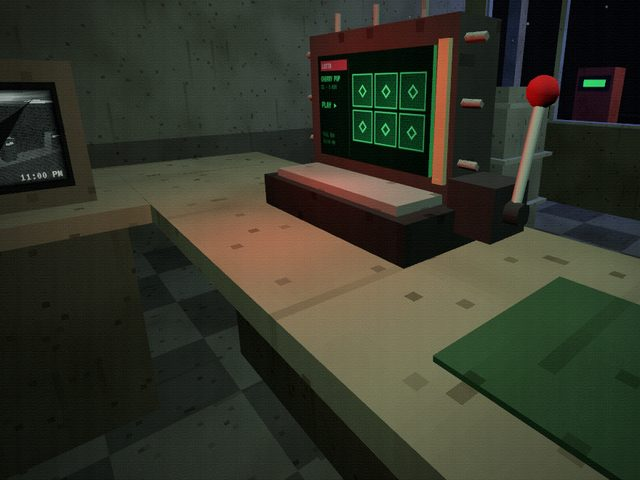
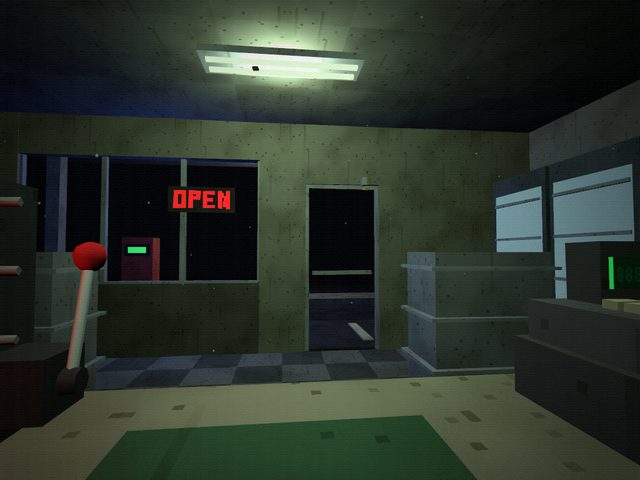
Season Ticket "Finished - For Now" and Scratch cover with the OPEN sign (#107)
* Redraw the grain elevator as a wooden prairie elevator with leg house, annex, cyclone and spout

Claude-Session: https://claude.ai/code/session_016QaTkMKy8nw5ihBrZfYzcJ

* Keep the train headlight clay in dark mode and give the train an explicit width

Claude-Session: https://claude.ai/code/session_016QaTkMKy8nw5ihBrZfYzcJ

* Give the horizon readout room below the railway

Claude-Session: https://claude.ai/code/session_016QaTkMKy8nw5ihBrZfYzcJ

* Add tilt and compass sky, Sky this week, wish badges, offline and smoother page changes

- Tilt sky (phones): the stars, moon and clouds slide with the phone's
  tilt, and the compass turns the stars and planets to the way the phone
  faces, dimming the sun or moon behind you
- Sky this week card on the home page: tonight's planets, moon phases,
  moon-planet passes, meteor peaks, eclipses, equinoxes, solstices and the
  sunset trend, all worked out on the phone
- Wish counter with badges at 1, 10, 25, 50 and 100
- sw.js offline helper: network first, saved copy when there's no signal
- Header and page-top sky stay put during page changes

Claude-Session: https://claude.ai/code/session_016QaTkMKy8nw5ihBrZfYzcJ

* Add Scratch to the games list

Scratch is Longlight's new roguelike scratch-ticket game, live at
jxstrr0.github.io/Scratch. It gets a project entry (status Building,
v0.1.0), a 640x480 cover and four screenshots captured from the live game.
CLAUDE.md lists its repo with the other games.
[…]

diff --git a/tools/prediction-tracker/index.html b/tools/prediction-tracker/index.html
@@ -14,7 +14,7 @@
   <meta property="og:title" content="Prediction Tracker · Longlight Interactive">
   <meta property="og:description" content="Log predictions with how sure you are, grade them later, and see how well-calibrated your calls really are. Everything stays on your own device.">
   <meta property="og:url" content="https://jxstrr0.github.io/Kelbo.Website/tools/prediction-tracker/">
-  <meta property="og:image" content="https://jxstrr0.github.io/Kelbo.Website/assets/social-preview.jpg?v=10">
+  <meta property="og:image" content="https://jxstrr0.github.io/Kelbo.Website/assets/social-preview.jpg?v=11">
   <meta property="og:image:width" content="1200">
   <meta property="og:image:height" content="630">
   <meta property="og:image:alt" content="The Longlight Interactive sun over a purple horizon, beside screenshots of four of its games.">

diff --git a/agent-fleet.html b/agent-fleet.html
@@ -14,7 +14,7 @@
   <meta property="og:title" content="Agent Fleet · Longlight Interactive">
   <meta property="og:description" content="A growing set of small, single-purpose bots I can run from my phone, like news digests, trackers, and weekly scans.">
   <meta property="og:url" content="https://jxstrr0.github.io/Kelbo.Website/agent-fleet.html">
-  <meta property="og:image" content="https://jxstrr0.github.io/Kelbo.Website/assets/social-preview.jpg?v=10">
+  <meta property="og:image" content="https://jxstrr0.github.io/Kelbo.Website/assets/social-preview.jpg?v=11">
   <meta property="og:image:width" content="1200">
   <meta property="og:image:height" content="630">
   <meta property="og:image:alt" content="The Longlight Interactive sun over a purple horizon, beside screenshots of four of its games.">

diff --git a/journal.html b/journal.html
@@ -14,7 +14,7 @@
   <meta property="og:title" content="AI Trading Journal · Longlight Interactive">
   <meta property="og:description" content="Kelbo's trading journal: his market views, his trades, and his running record, with notes from an AI coach.">
   <meta property="og:url" content="https://jxstrr0.github.io/Kelbo.Website/journal.html">
-  <meta property="og:image" content="https://jxstrr0.github.io/Kelbo.Website/assets/social-preview.jpg?v=10">
+  <meta property="og:image" content="https://jxstrr0.github.io/Kelbo.Website/assets/social-preview.jpg?v=11">
   <meta property="og:image:width" content="1200">
   <meta property="og:image:height" content="630">
   <meta property="og:image:alt" content="The Longlight Interactive sun over a purple horizon, beside screenshots of four of its games.">

diff --git a/game.html b/game.html
@@ -14,7 +14,7 @@
   <meta property="og:title" content="Game · Longlight Interactive">
   <meta property="og:description" content="A Longlight Interactive browser game: what it is, how far along it is, screenshots, and where to play it.">
   <meta property="og:url" content="https://jxstrr0.github.io/Kelbo.Website/game.html">
-  <meta property="og:image" content="https://jxstrr0.github.io/Kelbo.Website/assets/social-preview.jpg?v=10">
+  <meta property="og:image" content="https://jxstrr0.github.io/Kelbo.Website/assets/social-preview.jpg?v=11">
   <meta property="og:image:width" content="1200">
   <meta property="og:image:height" content="630">
   <meta property="og:image:alt" content="The Longlight Interactive sun over a purple horizon, beside screenshots of four of its games.">

diff --git a/games.html b/games.html
@@ -14,7 +14,7 @@
   <meta property="og:title" content="Games · Longlight Interactive">
   <meta property="og:description" content="Browser games from Longlight Interactive. Play them on your phone or computer, or look at the code.">
   <meta property="og:url" content="https://jxstrr0.github.io/Kelbo.Website/games.html">
-  <meta property="og:image" content="https://jxstrr0.github.io/Kelbo.Website/assets/social-preview.jpg?v=10">
+  <meta property="og:image" content="https://jxstrr0.github.io/Kelbo.Website/assets/social-preview.jpg?v=11">
   <meta property="og:image:width" content="1200">
   <meta property="og:image:height" content="630">
   <meta property="og:image:alt" content="The Longlight Interactive sun over a purple horizon, beside screenshots of four of its games.">

diff --git a/projects.html b/projects.html
@@ -14,7 +14,7 @@
   <meta property="og:title" content="Projects · Longlight Interactive">
   <meta property="og:description" content="Games, tools, and AI projects from Longlight Interactive, from planned to shipped.">
   <meta property="og:url" content="https://jxstrr0.github.io/Kelbo.Website/projects.html">
-  <meta property="og:image" content="https://jxstrr0.github.io/Kelbo.Website/assets/social-preview.jpg?v=10">
+  <meta property="og:image" content="https://jxstrr0.github.io/Kelbo.Website/assets/social-preview.jpg?v=11">
   <meta property="og:image:width" content="1200">
   <meta property="og:image:height" content="630">
   <meta property="og:image:alt" content="The Longlight Interactive sun over a purple horizon, beside screenshots of four of its games.">

diff --git a/about.html b/about.html
@@ -14,7 +14,7 @@
   <meta property="og:title" content="About · Longlight Interactive">
   <meta property="og:description" content="About Kelbo, the person behind Longlight Interactive, based in Saskatoon, Saskatchewan.">
   <meta property="og:url" content="https://jxstrr0.github.io/Kelbo.Website/about.html">
-  <meta property="og:image" content="https://jxstrr0.github.io/Kelbo.Website/assets/social-preview.jpg?v=10">
+  <meta property="og:image" content="https://jxstrr0.github.io/Kelbo.Website/assets/social-preview.jpg?v=11">
   <meta property="og:image:width" content="1200">
   <meta property="og:image:height" content="630">
   <meta property="og:image:alt" content="The Longlight Interactive sun over a purple horizon, beside screenshots of four of its games.">

diff --git a/whats-new.html b/whats-new.html
@@ -14,7 +14,7 @@
   <meta property="og:title" content="What's new · Longlight Interactive">
   <meta property="og:description" content="The newest version and latest change for every Longlight Interactive project.">
   <meta property="og:url" content="https://jxstrr0.github.io/Kelbo.Website/whats-new.html">
-  <meta property="og:image" content="https://jxstrr0.github.io/Kelbo.Website/assets/social-preview.jpg?v=10">
+  <meta property="og:image" content="https://jxstrr0.github.io/Kelbo.Website/assets/social-preview.jpg?v=11">
   <meta property="og:image:width" content="1200">
   <meta property="og:image:height" content="630">
   <meta property="og:image:alt" content="The Longlight Interactive sun over a purple horizon, beside screenshots of four of its games.">

diff --git a/trading.html b/trading.html
@@ -14,7 +14,7 @@
   <meta property="og:title" content="Trading · Longlight Interactive">
   <meta property="og:description" content="Kelbo's trading journal and the tools he builds for his own trading day.">
   <meta property="og:url" content="https://jxstrr0.github.io/Kelbo.Website/trading.html">
-  <meta property="og:image" content="https://jxstrr0.github.io/Kelbo.Website/assets/social-preview.jpg?v=10">
+  <meta property="og:image" content="https://jxstrr0.github.io/Kelbo.Website/assets/social-preview.jpg?v=11">
   <meta property="og:image:width" content="1200">
   <meta property="og:image:height" content="630">
   <meta property="og:image:alt" content="The Longlight Interactive sun over a purple horizon, beside screenshots of four of its games.">

diff --git a/index.html b/index.html
@@ -14,7 +14,7 @@
   <meta property="og:title" content="Longlight Interactive">
   <meta property="og:description" content="Longlight Interactive makes browser games, tools, and AI projects in Saskatoon, Saskatchewan.">
   <meta property="og:url" content="https://jxstrr0.github.io/Kelbo.Website/">
-  <meta property="og:image" content="https://jxstrr0.github.io/Kelbo.Website/assets/social-preview.jpg?v=10">
+  <meta property="og:image" content="https://jxstrr0.github.io/Kelbo.Website/assets/social-preview.jpg?v=11">
   <meta property="og:image:width" content="1200">
   <meta property="og:image:height" content="630">
   <meta property="og:image:alt" content="The Longlight Interactive sun over a purple horizon, beside screenshots of four of its games.">

diff --git a/ai.html b/ai.html
@@ -14,7 +14,7 @@
   <meta property="og:title" content="AI · Longlight Interactive">
   <meta property="og:description" content="AI projects and small bots from Longlight Interactive.">
   <meta property="og:url" content="https://jxstrr0.github.io/Kelbo.Website/ai.html">
-  <meta property="og:image" content="https://jxstrr0.github.io/Kelbo.Website/assets/social-preview.jpg?v=10">
+  <meta property="og:image" content="https://jxstrr0.github.io/Kelbo.Website/assets/social-preview.jpg?v=11">
   <meta property="og:image:width" content="1200">
   <meta property="og:image:height" content="630">
   <meta property="og:image:alt" content="The Longlight Interactive sun over a purple horizon, beside screenshots of four of its games.">

diff --git a/CLAUDE.md b/CLAUDE.md
@@ -49,7 +49,7 @@ Live at https://jxstrr0.github.io/Kelbo.Website/
 - The link preview image is `assets/social-preview.jpg` (1200×630, the
   Longlight sky, the sun with its glow and halo on the horizon line,
   "Longlight Interactive", plus the three featured game covers: Prairie Engine Works, Season Ticket, Scratch). Every `og:image`
-  ends `?v=10` so apps refetch it; bump it on every page when the picture
+  ends `?v=11` so apps refetch it; bump it on every page when the picture
   changes. Regenerate it if the covers change a lot. The favicon and
   home-screen icons are the logo's sun (glow, halo, sun) on an ivory line
   on a purple tile (the favicon turns slate in dark mode):
